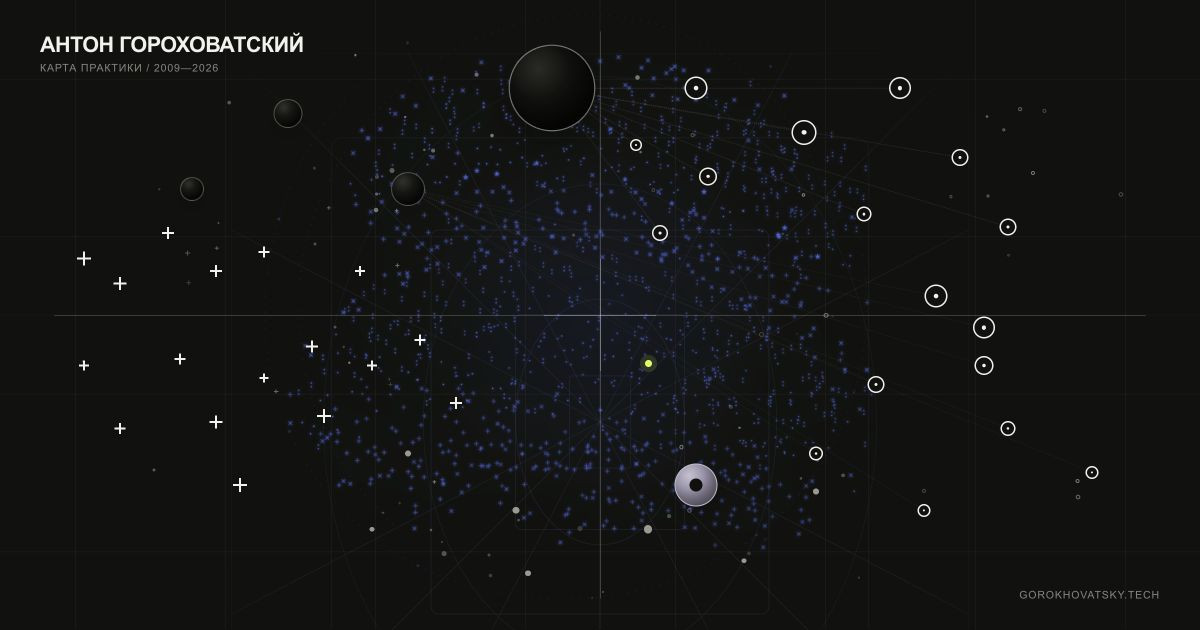
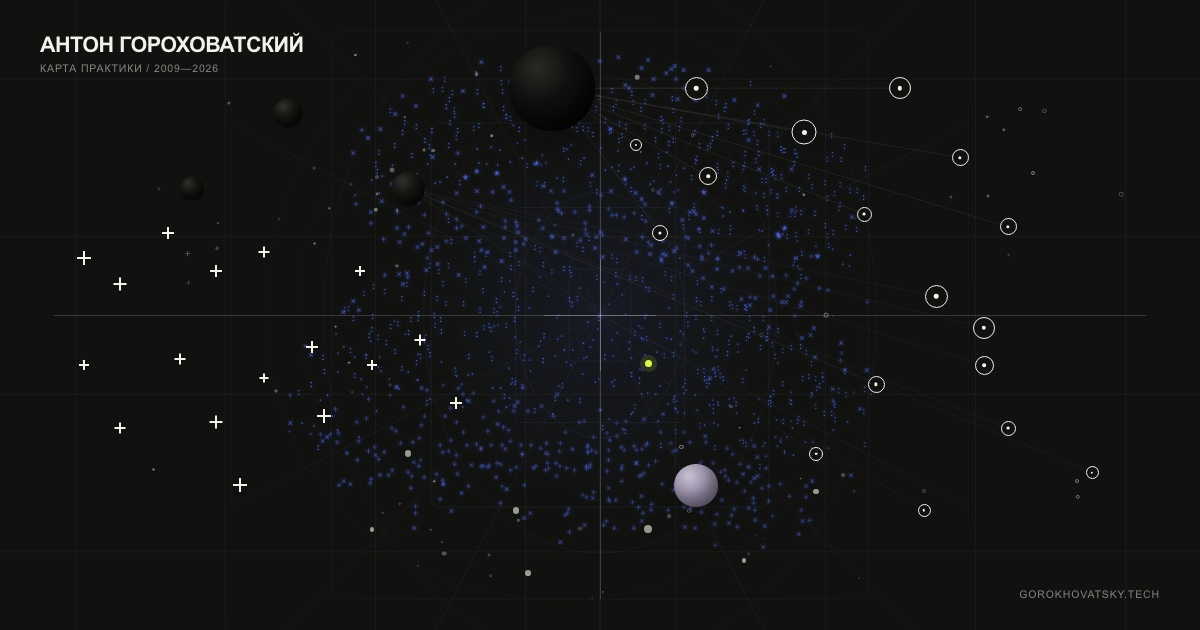
Refine map states and mobile navigation

diff --git a/styles.css b/styles.css
@@ -267,12 +267,15 @@ button {
 .map-depth-grid {
   position: absolute;
   z-index: 0;
-  inset: 6% 18% 10%;
-  width: auto;
+  top: 50%;
+  left: 50%;
+  width: 64%;
   height: auto;
+  aspect-ratio: 1;
   color: color-mix(in srgb, var(--signal) 30%, var(--line));
   opacity: 0.34;
   pointer-events: none;
+  transform: translate(-50%, -50%);
   mask-image: radial-gradient(ellipse at 50% 50%, #000 0 60%, transparent 96%);
   -webkit-mask-image: radial-gradient(ellipse at 50% 50%, #000 0 60%, transparent 96%);
 }
@@ -372,7 +375,7 @@ html[data-capture="og"] .map-grid {
 
 @media (max-width: 680px) {
   .map-depth-grid {
-    inset: 14% 5% 18%;
+    width: 90%;
     opacity: 0.18;
   }
 }
@@ -693,9 +696,7 @@ html[data-capture="og"] .map-grid {
 
 .map-node:hover .map-node__label,
 .map-node:focus-visible .map-node__label,
-.practice-map:has(.map-inspector.is-open) .map-node.is-selected .map-node__label,
-.map-node--garage .map-node__label,
-.map-node--running .map-node__label {
+.practice-map:has(.map-inspector.is-open) .map-node.is-selected .map-node__label {
   opacity: 1;
   transform: translateY(-50%) translateX(0);
 }
@@ -1166,8 +1167,8 @@ html[data-capture="og"] .map-grid {
   }
 
   .practice-map:has(.map-inspector.is-open) .map-node.is-selected .map-node__label,
-  .map-node--garage .map-node__label,
-  .map-node--running .map-node__label {
+  .map-node--garage:focus-visible .map-node__label,
+  .map-node--running:focus-visible .map-node__label {
     display: block;
   }
 
@@ -5648,6 +5649,8 @@ body:has(.command-dock.is-open) .origin-marker__label {
   }
 
   .control-console .constellation-nav__label,
+  .control-console .constellation-nav__item:hover .constellation-nav__label,
+  .control-console .constellation-nav__item:focus-visible .constellation-nav__label,
   .control-console .constellation-nav__item.is-current .constellation-nav__label {
     position: static;
     grid-column: 2;
@@ -5849,7 +5852,7 @@ body:has(.command-dock.is-open) .origin-marker__label {
 }
 
 .map-node--company .map-node__glyph {
-  border: 1px solid rgba(255, 255, 255, 0.2);
+  border: 0;
   border-radius: 50%;
   background:
     radial-gradient(circle at 34% 27%, #30312b 0, #171814 34%, #080906 72%, #030402 100%);
@@ -5866,27 +5869,17 @@ body:has(.command-dock.is-open) .origin-marker__label {
 .map-node--company.is-selected .map-node__glyph {
   box-shadow:
     inset -4px -6px 10px rgba(0, 0, 0, 0.22),
-    0 0 0 2px color-mix(in srgb, var(--signal) 24%, transparent),
     0 9px 20px rgba(0, 0, 0, 0.16);
 }
 
 .map-node--garage .map-node__glyph,
 .map-node--garage.is-selected .map-node__glyph {
-  border-color: rgba(255, 255, 255, 0.34);
+  border: 0;
   background:
     radial-gradient(circle at 34% 27%, #292a25 0, #11120f 36%, #050604 74%, #000 100%);
   box-shadow:
     inset -8px -11px 18px rgba(0, 0, 0, 0.28),
     0 12px 28px rgba(0, 0, 0, 0.2);
-}
-
-html[data-theme="dark"] .map-node--company .map-node__glyph {
-  border-color: rgba(255, 255, 255, 0.26);
-}
-
-html[data-theme="dark"] .map-node--garage .map-node__glyph,
-html[data-theme="dark"] .map-node--garage.is-selected .map-node__glyph {
-  border-color: rgba(255, 255, 255, 0.42);
 }
 
 .map-node--personal .map-node__glyph {
@@ -5897,7 +5890,7 @@ html[data-theme="dark"] .map-node--garage.is-selected .map-node__glyph {
 .map-node--running .map-node__glyph {
   width: calc(var(--size) * 0.72);
   height: calc(var(--size) * 0.72);
-  border: 1px solid color-mix(in srgb, var(--running-dusk) 64%, white);
+  border: 0;
   background:
     radial-gradient(
       circle at 34% 27%,
@@ -5912,17 +5905,12 @@ html[data-theme="dark"] .map-node--garage.is-selected .map-node__glyph {
 }
 
 .map-node--running .map-node__glyph::after {
-  position: absolute;
-  inset: 34%;
-  border-radius: 50%;
-  background: #10110f;
-  content: "";
+  content: none;
 }
 
 .map-node--running.is-selected .map-node__glyph {
   box-shadow:
     inset -6px -9px 14px rgba(31, 27, 36, 0.24),
-    0 0 0 2px color-mix(in srgb, var(--signal) 28%, transparent),
     0 11px 26px rgba(0, 0, 0, 0.2);
 }
 
@@ -5974,6 +5962,16 @@ html[data-theme="dark"] .map-node--garage.is-selected .map-node__glyph {
 /* Directional affordances use one geometric construction. Decorative
    Unicode arrows are intentionally absent from links, cards and labels.
    The resume route uses a document metaphor rather than an abstract slash. */
+
+.control-console .constellation-nav__cluster,
+.control-console .constellation-nav__cluster::before,
+.control-console .constellation-nav__cluster::after,
+.control-console .constellation-nav__shape,
+.control-console .constellation-nav__shape::before,
+.control-console .constellation-nav__shape::after,
+.control-console .constellation-nav__item::after {
+  pointer-events: none;
+}
 
 .constellation-nav__shape--external {
   position: relative;
@@ -6222,6 +6220,13 @@ html[data-theme="dark"] .map-node--garage.is-selected .map-node__glyph {
 
   .control-console .constellation-nav__item.is-current {
     background: transparent;
+  }
+
+  .control-console
+    .constellation-nav__item:not(.is-current):hover
+    .constellation-nav__shape {
+    color: color-mix(in srgb, var(--content-ink) 72%, transparent);
+    transform: none;
   }
 
   .control-console .constellation-nav__label,

diff --git a/index.html b/index.html
@@ -11,11 +11,11 @@
     <meta name="theme-color" content="#f2f1ec">
     <meta name="color-scheme" content="light dark">
     <meta name="robots" content="index, follow, max-image-preview:large">
-    <link rel="icon" href="assets/favicon.svg?v=20260725-spatial-map-1" type="image/svg+xml">
+    <link rel="icon" href="assets/favicon.svg?v=20260725-spatial-map-2" type="image/svg+xml">
     <link
       rel="apple-touch-icon"
       sizes="180x180"
-      href="assets/apple-touch-icon.png?v=20260725-spatial-map-1"
+      href="assets/apple-touch-icon.png?v=20260725-spatial-map-2"
     >
     <meta property="og:type" content="website">
     <meta property="og:locale" content="ru_RU">
@@ -28,11 +28,11 @@
     <meta property="og:url" content="https://gorokhovatsky.tech/">
     <meta
       property="og:image"
-      content="https://gorokhovatsky.tech/assets/og-signal.jpg?v=20260725-spatial-map-1"
+      content="https://gorokhovatsky.tech/assets/og-signal.jpg?v=20260725-spatial-map-2"
     >
     <meta
       property="og:image:secure_url"
-      content="https://gorokhovatsky.tech/assets/og-signal.jpg?v=20260725-spatial-map-1"
+      content="https://gorokhovatsky.tech/assets/og-signal.jpg?v=20260725-spatial-map-2"
     >
     <meta property="og:image:type" content="image/jpeg">
     <meta property="og:image:width" content="1200">
@@ -49,7 +49,7 @@
     >
     <meta
       name="twitter:image"
-      content="https://gorokhovatsky.tech/assets/og-signal.jpg?v=20260725-spatial-map-1"
+      content="https://gorokhovatsky.tech/assets/og-signal.jpg?v=20260725-spatial-map-2"
     >
     <meta
       name="twitter:image:alt"
@@ -80,8 +80,8 @@
         }
       })();
     </script>
-    <link rel="stylesheet" href="styles.css?v=20260725-spatial-map-1">
-    <script src="script.js?v=20260725-spatial-map-1" defer></script>
+    <link rel="stylesheet" href="styles.css?v=20260725-spatial-map-2">
+    <script src="script.js?v=20260725-spatial-map-2" defer></script>
     <script type="application/ld+json">
       {
         "@context": "https://schema.org",
@@ -128,8 +128,8 @@
           {
             "@type": "ImageObject",
             "@id": "https://gorokhovatsky.tech/#share-image",
-            "url": "https://gorokhovatsky.tech/assets/og-signal.jpg?v=20260725-spatial-map-1",
-            "contentUrl": "https://gorokhovatsky.tech/assets/og-signal.jpg?v=20260725-spatial-map-1",
+            "url": "https://gorokhovatsky.tech/assets/og-signal.jpg?v=20260725-spatial-map-2",
+            "contentUrl": "https://gorokhovatsky.tech/assets/og-signal.jpg?v=20260725-spatial-map-2",
             "encodingFormat": "image/jpeg",
             "width": 1200,
             "height": 630,
